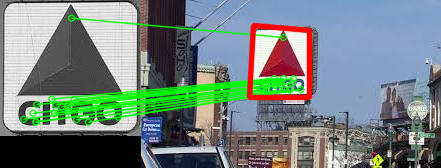
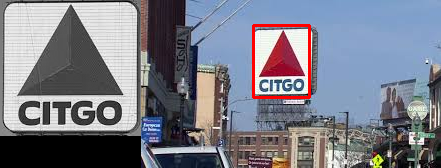
Change bbox bounds for template matching and update results

Changed region(s): [[0.0295, 0.0893, 0.7075, 0.744]]

diff --git a/computer_vision/sift_template.py b/computer_vision/sift_template.py
@@ -1,7 +1,7 @@
 """
 RSS 2019 | Bounding box methods using SIFT and Template Matching
 
-Authors: Abbie Lee, Alex Cuellar
+Author: Abbie Lee
 """
 
 import cv2
@@ -35,7 +35,9 @@ def image_print(img):
 
 def cd_sift_ransac(img, template, img_counter, debug = False):
     """
-    Implement the cone detection using SIFT + RANSAC algorithm
+    Implement the cone detection using SIFT + RANSAC algorithm using tutorial
+    at:  https://stackoverflow.com/questions/51606215/how-to-draw-bounding-box-on-best-matches
+
     Input:
     img: np.3darray; the input image with a cone to be detected
     Return:
@@ -83,28 +85,31 @@ def cd_sift_ransac(img, template, img_counter, debug = False):
         x_max = dst[2][0][0]
         y_max = dst[2][0][1]
 
+        bounding_box = ((x_min, y_min), (x_max, y_max))
+
         # Add offset to box for drawing
         dst += (w, 0)
 
         if debug:
-            draw_params = dict(matchColor = (0,255,0), # draw matches in green color
-                   singlePointColor = None,
-                   matchesMask = matchesMask, # draw only inliers
-                   flags = 2)
-
-            img3 = cv2.drawMatches(template, kp1, img, kp2, good, None,**draw_params)
-
-            # Draw bounding box in Red
-            img3 = cv2.polylines(img3, [np.int32(dst)], True, (0,0,255), 3, cv2.LINE_AA)
-
-            fname = str(img_counter) + ".png"
-
-            cv2.imwrite("test_results/" + fname, img3)
-            # cv2.imshow("result", img3)
-            # cv2.waitKey(0)
+            debug_bb(img, template, bounding_box, img_counter)
+            # draw_params = dict(matchColor = (0,255,0), # draw matches in green color
+            #        singlePointColor = None,
+            #        matchesMask = matchesMask, # draw only inliers
+            #        flags = 2)
+            #
+            # visualize = cv2.drawMatches(template, kp1, img, kp2, good, None,**draw_params)
+            #
+            # # Draw bounding box in Red
+            # visualize = cv2.polylines(visualize, [np.int32(dst)], True, (0,0,255), 3, cv2.LINE_AA)
+            #
+            # fname = str(img_counter) + ".png"
+            #
+            # cv2.imwrite("test_results/" + fname, visualize)
+            # # cv2.imshow("result", img3)
+            # # cv2.waitKey(0)
 
         # Return bounding box
-        return ((x_min, y_min), (x_max, y_max))
+        return bounding_box
 
     else:
         print("[SIFT] not enough matches; matches: ", len(good))
@@ -112,9 +117,11 @@ def cd_sift_ransac(img, template, img_counter, debug = False):
         # Return bounding box of area 0 if no match found
         return ((0,0), (0,0))
 
-def cd_template_matching(img, template):
+def cd_template_matching(img, template, img_counter, debug=False):
     """
-    Implement the cone detection using template matching algorithm
+    Implement the cone detection using template matching algorithm using tutorial
+    at: https://www.pyimagesearch.com/2015/01/26/multi-scale-template-matching-using-python-opencv/
+
     Input:
     img: np.3darray; the input image with a cone to be detected
     Return:
@@ -134,21 +141,74 @@ def cd_template_matching(img, template):
     best_match = None
 
     # Loop over different scales of image template
-    for scale in np.linspace(1.5, .5, 50):
+    for scale in np.linspace(0.5, 1.5, 50):
         # Resize the image
         resized_template = imutils.resize(template_canny, width = int(template_canny.shape[1] * scale))
-        (h,w) = resized_template.shape[:2]
+        (h, w) = resized_template.shape[:2]
 
         # Check to see if test image is now smaller than template image
         if resized_template.shape[0] > img_height or resized_template.shape[1] > img_width:
             continue
 
-            ########## YOUR CODE STARTS HERE ##########
-            # Use OpenCV template matching functions to find the best match
-            # across template scales.
-            # Remember to resize the bounding box using the highest scoring scale
-            # x1,y1 pixel will be accurate, but x2,y2 needs to be correctly scaled
-            bounding_box = ((0,0),(0,0))
-            ########### YOUR CODE ENDS HERE ###########
+        ########## YOUR CODE STARTS HERE ##########
+        # Use OpenCV template matching functions to find the best match
+        # across template scales.
+        # Remember to resize the bounding box using the highest scoring scale
+        # x1,y1 pixel will be accurate, but x2,y2 needs to be correctly scaled
 
-            return bounding_box
+        # detect edges in the resized, grayscale image and apply template
+        # matching to find the template in the image
+        result = cv2.matchTemplate(img_canny, resized_template, cv2.TM_CCORR)
+        minVal, maxVal, minLoc, maxLoc = cv2.minMaxLoc(result)
+
+        # if we have found a new maximum correlation value, then update
+        # the bookkeeping variable
+        if best_match is None or maxVal > best_match[0]:
+        	best_match = (maxVal, maxLoc, scale, (h, w))
+
+    # unpack the bookkeeping variable and compute the (x, y) coordinates
+    # of the bounding box based on the resized ratio
+    (_, maxLoc, scale, (h, w)) = best_match
+
+    # set bounding box params
+    x_min = int(maxLoc[0])
+    y_min = int(maxLoc[1])
+    x_max = int((maxLoc[0] + h) * scale)
+    y_max = int((maxLoc[1] + w) * scale)
+
+    bounding_box = ((x_min, y_min), (x_max, y_max))
+
+    # draw a bounding box around the detected region
+    if debug:
+        debug_bb(img, template, bounding_box, img_counter)
+
+        ########### YOUR CODE ENDS HERE ###########
+
+    return bounding_box
+
+def debug_bb(img, template, bounding_box, img_counter):
+    """
+    Display image with detected bounding box and template.
+
+    Input:
+        img: np.3darray; the input image with a cone to be detected
+        template: np.3darray: template against which we are matching
+    Return: None
+    """
+    matches = []
+    db_img = cv2.drawMatches(template, None, img, None, None, None, None)
+
+    # shift bb to draw on image
+    w = template.shape[1]
+
+    top_left =(int(bounding_box[0][0] + w), bounding_box[0][1])
+    bottom_right = (int(bounding_box[1][0]) + w, bounding_box[1][1])
+
+    # Draw bounding box in Red
+    cv2.rectangle(db_img, top_left, bottom_right, (0, 0, 255), 2)
+
+    fname = str(img_counter) + ".png"
+
+    cv2.imwrite("test_results/" + fname, db_img)
+    # cv2.imshow("Debug", db_img)
+    # cv2.waitKey(0)
